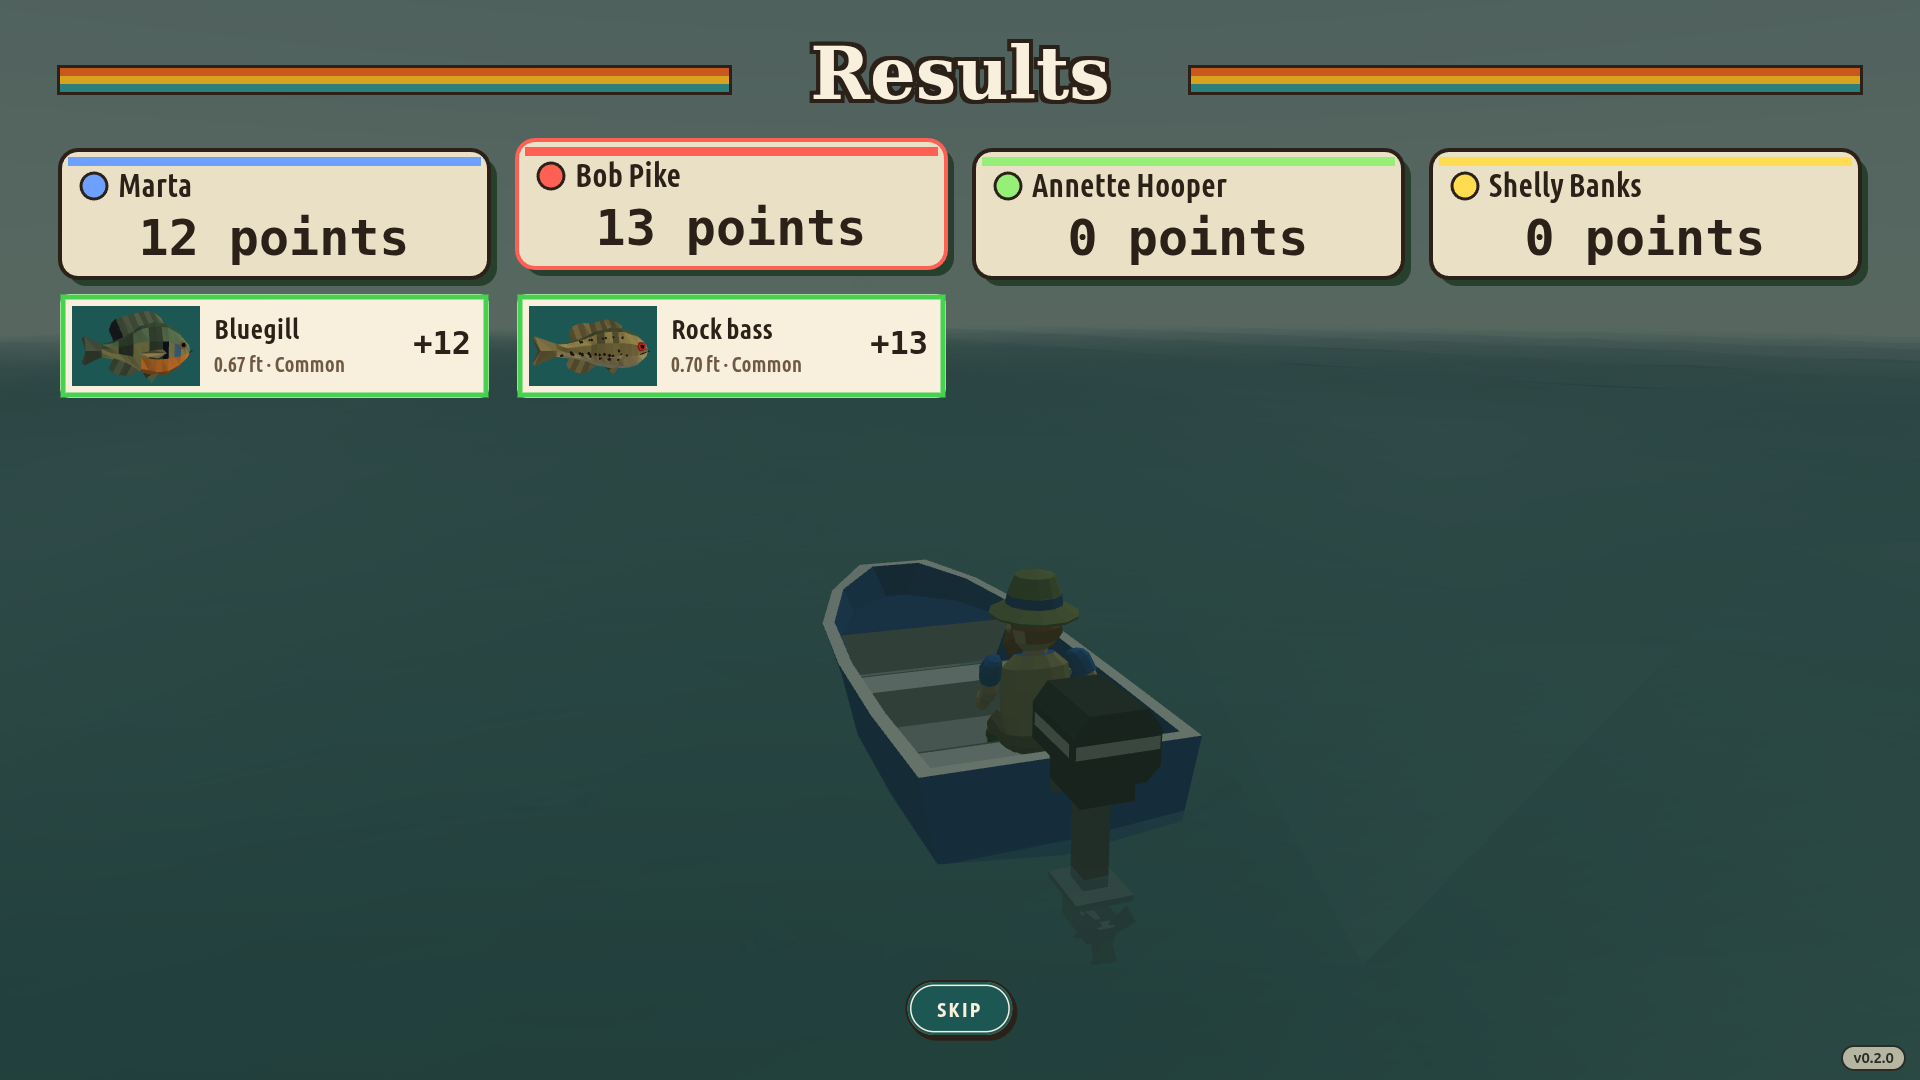
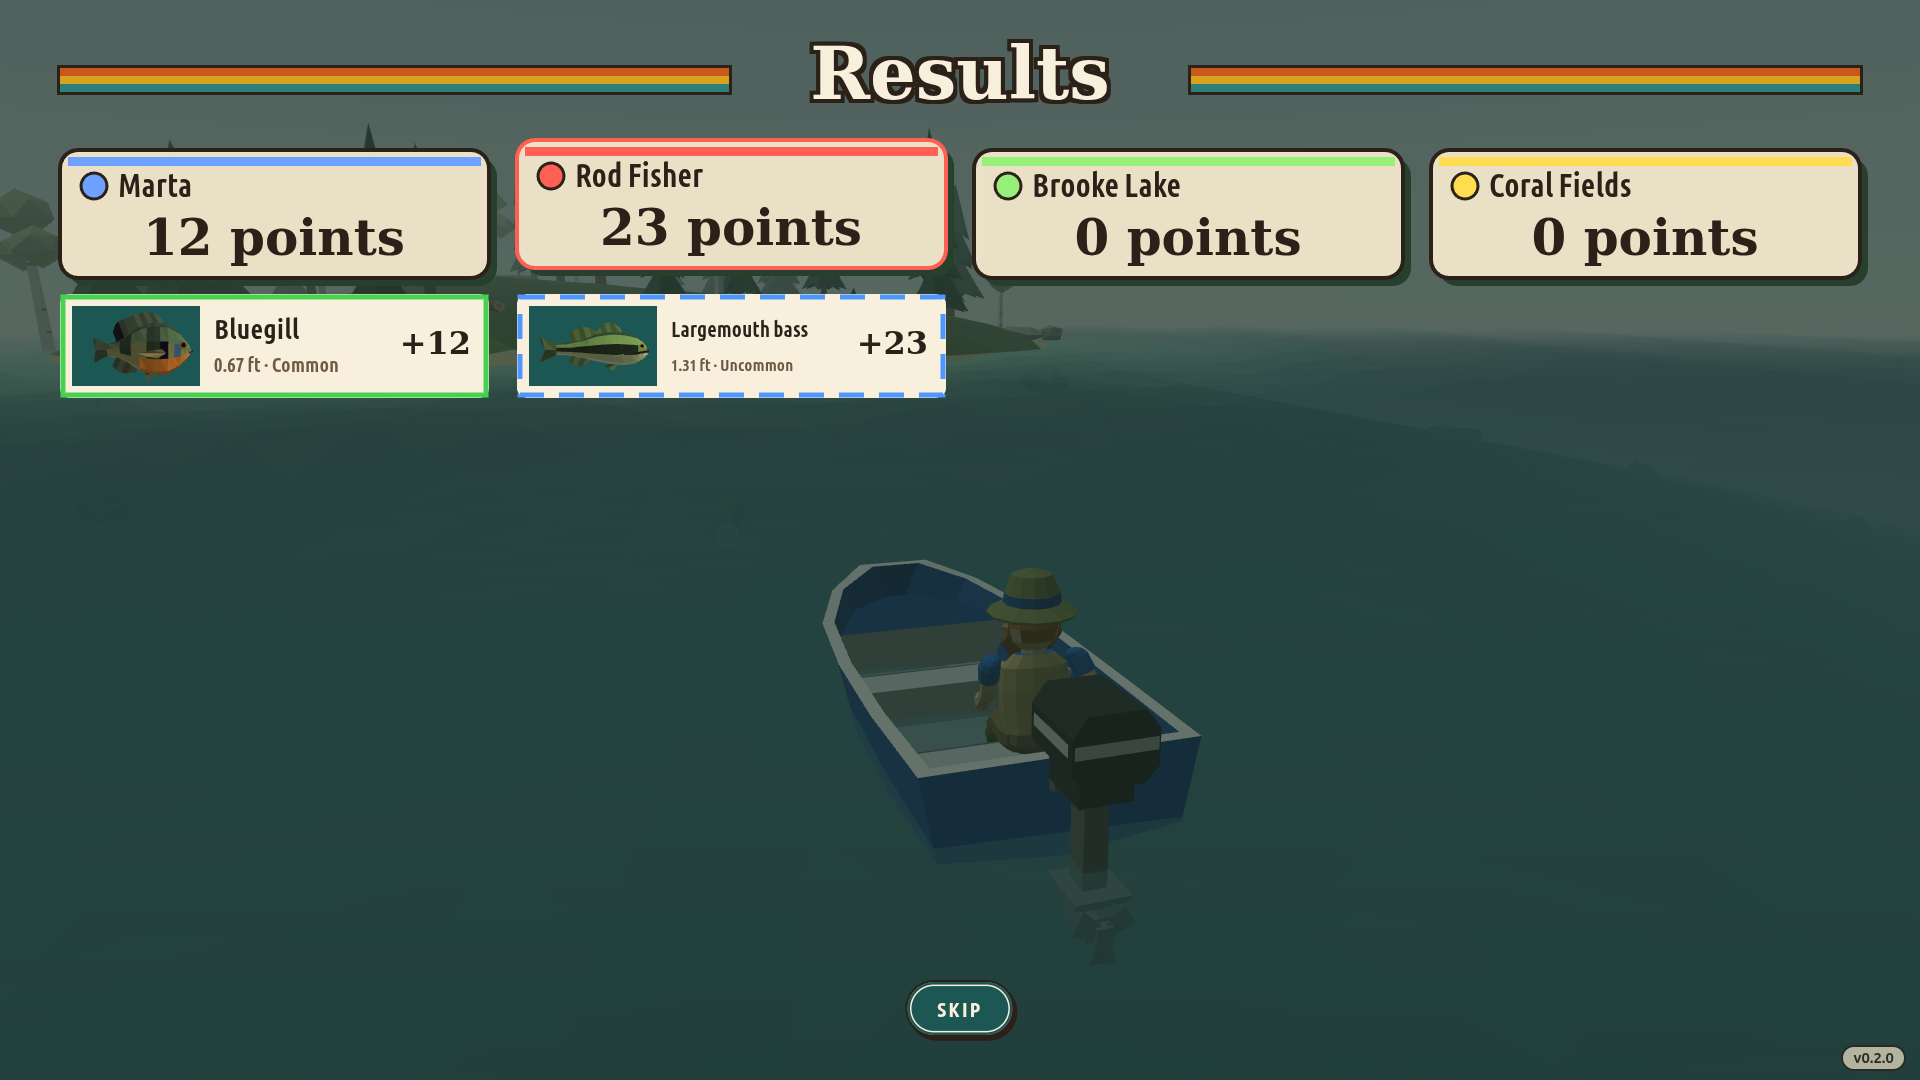
Retro look: delete the look keys KISS stopped drawing (R6.41), final shots, handoff line

diff --git a/crates/core/src/flow/look.rs b/crates/core/src/flow/look.rs
@@ -66,8 +66,6 @@ pub struct CardLook {
 #[derive(Debug, Clone, PartialEq, Eq, Deserialize)]
 #[serde(deny_unknown_fields)]
 pub struct HudLook {
-    pub driving: C,
-    pub fishing: C,
     pub gauge_face: C,
     pub gauge_tick: C,
     pub gauge_fill: C,
@@ -77,9 +75,6 @@ pub struct HudLook {
     pub ping_ready: C,
     pub ping_wait: C,
     pub item_slot: C,
-    pub key_cap: C,
-    /// the key hints fade over this long once `flow.hints_ms` is up
-    pub hint_fade_ms: i32,
     pub seed: C,
     /// your boat wrecked: a flash over the screen, this colour, fading
     /// over this long
@@ -235,8 +230,6 @@ impl FlowLook {
             ("card.light", k.light),
             ("card.shadow_colour", k.shadow_colour),
             ("card.dots", k.dots),
-            ("hud.driving", h.driving),
-            ("hud.fishing", h.fishing),
             ("hud.gauge_face", h.gauge_face),
             ("hud.gauge_tick", h.gauge_tick),
             ("hud.gauge_fill", h.gauge_fill),
@@ -245,7 +238,6 @@ impl FlowLook {
             ("hud.ping_ready", h.ping_ready),
             ("hud.ping_wait", h.ping_wait),
             ("hud.item_slot", h.item_slot),
-            ("hud.key_cap", h.key_cap),
             ("hud.seed", h.seed),
             ("hud.wreck_flash", h.wreck_flash),
             ("countdown.number", n.number),
@@ -311,7 +303,6 @@ impl FlowLook {
             colour_ok("burst.colours", *c)?;
         }
         let times = [
-            h.hint_fade_ms,
             h.wreck_flash_ms,
             n.pop_ms,
             n.go_ms,

diff --git a/crates/core/src/minigame/look.rs b/crates/core/src/minigame/look.rs
@@ -15,9 +15,6 @@ pub struct Look {
     /// the instruction line and the progress readout during play
     pub text: C,
     pub text_size: i32,
-    pub hint: C,
-    pub hint_size: i32,
-    pub progress_size: i32,
     pub bar: C,
     pub bar_back: C,
     /// the Fish-Boy's case round a minigame shown on its screen outside a
@@ -95,7 +92,6 @@ pub struct ReelLook {
     pub hub: C,
     pub handle: C,
     pub arrow: C,
-    pub progress: C,
     pub pip_off: C,
     pub pip_on: C,
 }
@@ -179,7 +175,6 @@ impl Look {
             ("banner.ink", b.ink),
             ("banner.shadow", b.shadow),
             ("text", self.text),
-            ("hint", self.hint),
             ("bar", self.bar),
             ("bar_back", self.bar_back),
             ("bezel", self.bezel),
@@ -202,7 +197,6 @@ impl Look {
             ("power_reel.hub", r.hub),
             ("power_reel.handle", r.handle),
             ("power_reel.arrow", r.arrow),
-            ("power_reel.progress", r.progress),
             ("power_reel.pip_off", r.pip_off),
             ("power_reel.pip_on", r.pip_on),
             ("nitrous.background", a.background),
@@ -260,8 +254,6 @@ impl Look {
         }
         let sizes = [
             self.text_size,
-            self.hint_size,
-            self.progress_size,
             self.banner.size,
             self.banner.band_h,
             self.camera.viewfinder_size[0],

diff --git a/SECOND-ORDER.md b/SECOND-ORDER.md
@@ -426,6 +426,7 @@ One row per assumption, surprise or open item. **Kind** is *divergence* (what wa
 | R6.68 | finding | The Menu button sat over the time card. | The KISS pass moved the time to the top right, under the Menu button. | The Menu button moved to the bottom-left corner, which the speed gauge left empty. | `body[data-screen="play"] .panel.hud` in `web/style.css` | done |
 | R6.69 | worklist | The magazine look is right. | It is the agent's reading of "retro outdoors magazine". | The person looks at `notes/shots/retro/` (title, settings, New match, the online lobby, the HUD, a hook popup, the postgame's reveal and ranking, a minigame and its banner) and says what to change: colours in `web/style.css` `:root` and `data/flow.json` / `data/ui2d.json`, the masthead in `data/wordmark.svg`. |  | person |
 | R6.70 | finding | The page scan reads every file under `web/` as text. | The tab icon's PNGs are not UTF-8, so `page_keeps_no_rule_and_names_no_other_origin` stopped with "stream did not contain valid UTF-8" (the browser check passed, so this showed only in `cargo test`). | The scan skips `.png` files: an image holds no page code. SVGs are text and are still scanned. Also, `print` is a banned I/O name in the core, so the magazine's helpers are `flow/magazine.rs`. | `web_files` in `crates/core/tests/boundary.rs` | done |
+| R6.71 | finding | The look files keep the keys the KISS pass stopped drawing (R6.41). | Nothing reads them since the gauge, the mode badge, the key hints, the minigames' Esc hint and the second progress bar went. | Deleted from `data/flow.json` (`hud.driving`, `hud.fishing`, `hud.key_cap`, `hud.hint_fade_ms`) and `data/ui2d.json` (`minigames.hint`, `hint_size`, `progress_size`, `power_reel.progress`), with their fields. The tier tag on a popup is measured in the condensed face it is drawn in, so "COMMON" fits its tag. | `HudLook` in `flow/look.rs`; `Look`, `ReelLook` in `minigame/look.rs`; `popup` in `flow/hud.rs` | done |
 | R5.30 | divergence | The AI's item hook (`ai::items::decide`) would be filled in later from the match as it stood. | The AI may know only what its seat sees. Its items show in its HUD (the slot, the effect timers, the camera's offer), its radar (the buoy at all times, an Enhanced Radar's marks) and the minigame on its screen. | `Senses::items` (`ItemsSeen`): the item held, the minigame and its screen, a teleport's choice or charge, the offer, the effects running, its marks, the buoy, its last catch's tier and the time left. A new goal, `Goal::Buoy`. | `crates/core/src/ai/senses.rs`; `ai/items.rs` | done |
 | R5.31 | divergence | R4.11 could stay open: the Power Reel was best used before the hook. | A minigame takes the keys, so the reel fought on with no Space and the line could break. Refusing the Power Reel while reeling would push it before the cast, where its 20 s run out during the cast, the sink and the nibbles. | The fix: **the reel holds still while any item's minigame plays, or a teleport's spot is picked.** The catch zone, the fish's marker and the meter wait and pick up where they were; a ram still snaps the line. It costs the seconds the minigame takes, with a rival maybe coming, and gains nothing else. The Fish-Boy raised with Tab still leaves the reel fighting (V23, unchanged). `items.reel_holds_in_minigame` false gives the game as before. | `Fishing::reel_held` (set by `Match::items_step`); `a_minigame_holds_the_reel_still_until_it_ends` | person |
 | R5.32 | finding | The AI could read the minigames' state to play them. | Their state holds things a person can't see (the Enhanced Radar's sweet spots). | `Minigame::sight` gives the screen as plain values: the reel's middle, the boat's cells still drawn, the free atoms and their motion, each circle and when its ring meets it, the flying fish, each slider's knob and how blurred it leaves the picture. The sweet spots are not in it: the hand finds them by sliding each knob and watching the blur. Small accessors were added to the minigames for it. | `crates/core/src/minigame/sight.rs` | done |
@@ -469,7 +470,7 @@ One row per assumption, surprise or open item. **Kind** is *divergence* (what wa
 | R6.38 | divergence | The line's tension is a whine loop that climbs in pitch. | The person: it "sounds like I'm being abducted by an alien"; "could it be like the ratcheting sound instead?" | The `line_tension` loop is gone. A `line_drag` cue (a soft band-passed noise tick with a faint square, lower and quieter than the reel's ratchet click) ticks 3 a second just past 35% tension up to 16 at full, pitch 0.85 to 1.25, each at 0.8 of its recipe. The core steps it from the page's clock in `Sound::drag`; the Sounds screen's Line tension toggle and slider play it the same way. The agent's numbers. | `audio.line_tension` in `data/tuning.json`; `motor::line_drag`; `the_line_drag_ticks_faster_and_higher_as_it_tightens_and_not_below_its_start`; `the_sounds_the_brief_names_are_all_there` (in `tests/sounds.rs`: quieter than the ratchet) | person |
 | R6.39 | finding | TONE's KISS rule needs a reviewer to hold it. | Part of it is cheap to check. | `copy.rs`: a popup at most 40 characters, a minigame call 24, a fishing, HUD or ping-status word 20; no `Esc`, `Tab`, `Shift` or `Space` in a minigame, popup, fishing, HUD or teleport string. The camera's offer keeps its two key caps (Shift, Esc): without them it cannot be answered. | `popups_minigame_calls_and_hud_words_stay_short`; `no_minigame_or_match_string_names_a_key` | done |
 | R6.40 | divergence | The ranking card closes the postgame; Esc on it goes to the Title. | The person: "after it announces the winners ... there is still an option to close that popup and see what summed up to that total". | Once ranked, a Catches button (and Esc or Space) puts the ranking card away and shows every player's column: each catch's fish, tier, length and points, and the total. Ranking (or Esc or Space again) brings it back. Rematch and Back to Title stay offered with both; Esc no longer leaves the postgame. | `show_breakdown` in `flow/mod.rs`; `postgame_panels` in `flow/screens.rs`; `the_ranking_closes_to_show_every_catch_and_total_then_comes_back`; browser step `match_flow` | done |
-| R6.41 | finding | The HUD's look file would lose the colours the removed gauge, mode badge and key hints used. | Another agent was restyling `data/flow.json` and `data/ui2d.json` at the same time. | Left in place, unused: `flow.json` `hud.driving`, `hud.fishing`, `hud.key_cap`, `hud.hint_fade_ms`, and `ui2d.json` `minigames.hint`, `hint_size`, `progress_size`, `power_reel.progress`. They are read and checked, not drawn. Delete them (and their fields in `flow/look.rs`, `minigame/look.rs`) once the restyle is done. | | open |
+| R6.41 | finding | The HUD's look file would lose the colours the removed gauge, mode badge and key hints used. | Another agent was restyling `data/flow.json` and `data/ui2d.json` at the same time. | Left in place, unused: `flow.json` `hud.driving`, `hud.fishing`, `hud.key_cap`, `hud.hint_fade_ms`, and `ui2d.json` `minigames.hint`, `hint_size`, `progress_size`, `power_reel.progress`. They are read and checked, not drawn. Delete them (and their fields in `flow/look.rs`, `minigame/look.rs`) once the restyle is done. | `flow/look.rs`, `minigame/look.rs` | done: deleted with the retro look (R6.71) |
 
 ## Strings written by the agent
 

diff --git a/HANDOFF.md b/HANDOFF.md
@@ -115,6 +115,8 @@ The last lines of `./scripts/check.sh` and `./scripts/count-tests.sh`, with the 
 
 2026-10-18, the performance pass (one AI path search a tick, models out of view not posed, the frame's lists read in place, unchanged view model and 2D list not redrawn, the sky drawn last, no stray 404s), merged with main (branch `worktree-agent-a9dc849f7fd273052`): `BUILDER CHECK PASSED` (browser check in chromium, firefox, webkit, now failing on any 404); `ONLINE CHECK PASSED`; `count-tests.sh`: 467 passed, 0 failed, 0 ignored; `scripts/break_tests.py R6.4 R6.5`: 2 of 2 breaks caught.
 
+2026-10-18, the retro outdoors magazine look (menus, masthead, HUD cards, popups, postgame, minigame frames, tab icon; the KISS pass's unused look keys deleted), merged with main's KISS stage 2 (branch `worktree-agent-a1802f7afa7098030`): `BUILDER CHECK PASSED` (browser check in chromium, firefox, webkit); `count-tests.sh`: 471 passed, 0 failed, 0 ignored; `scripts/break_tests.py "dot corner"`: 1 of 1 caught. Person: R6.69 (the look, `notes/shots/retro/`).
+
 ## The next action
 
 One action.
